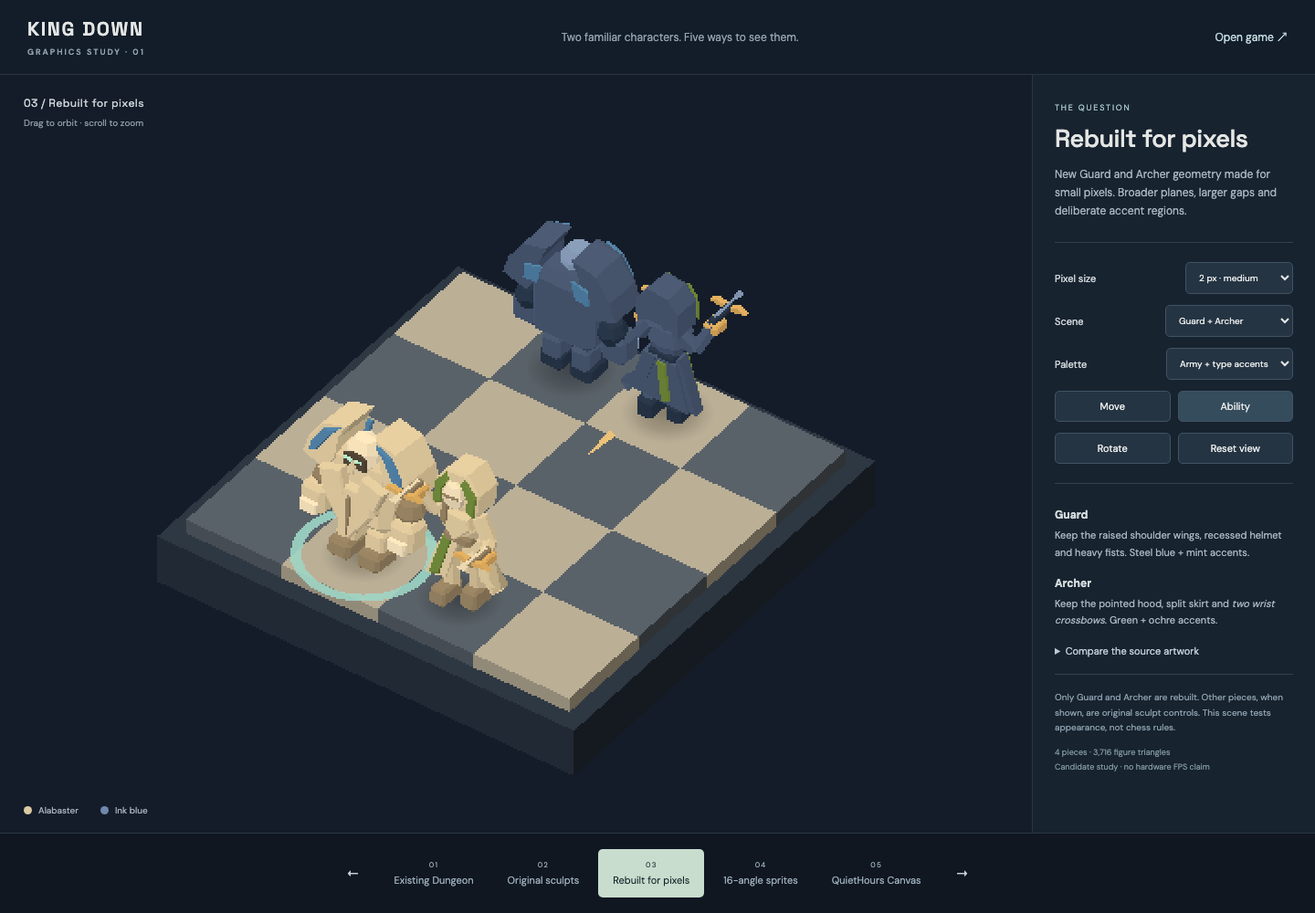
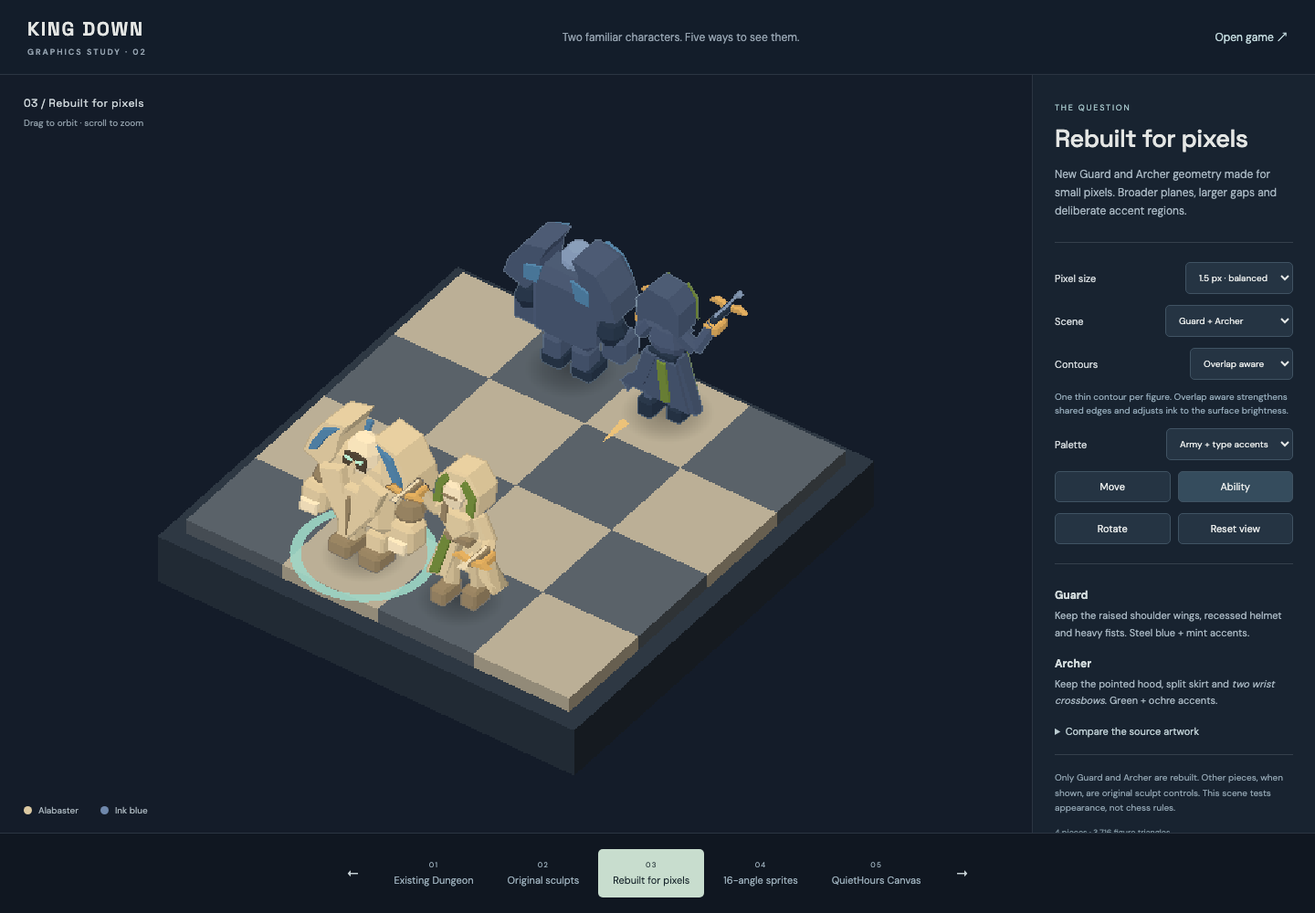
Compare finer pixels and adaptive piece contours in graphics study

diff --git a/src/render/prototype/study.ts b/src/render/prototype/study.ts
@@ -8,6 +8,7 @@ import { BoardRenderer } from '../renderer';
 import { STYLES } from '../styles';
 import { loadModels } from '../voxels';
 import { fromFen } from '../../rules/setup';
+import { PieceContourPass, type ContourMode } from './PieceContourPass';
 import './study.css';
 
 const variants=['baseline','sculpt','rebuilt','sprites','quiet'] as const;
@@ -22,12 +23,14 @@ const copy=[
 ];
 const params=new URLSearchParams(location.search);
 let variant:Variant=variants.includes(params.get('variant') as Variant)?params.get('variant') as Variant:'rebuilt';
-let crowded=false, pixel=2, running=false, orbit=false, motion=0, lastFrame=0;
+let pixel=[1,1.5,2,3,4].includes(Number(params.get('pixels')))?Number(params.get('pixels')):1.5;
+let contourMode:ContourMode=['off','silhouette','adaptive'].includes(params.get('contours')??'')?params.get('contours') as ContourMode:'adaptive';
+let running=false, orbit=false, motion=0, lastFrame=0;
 let epoch=0;
 const reduced=matchMedia('(prefers-reduced-motion: reduce)').matches;
 const source=import.meta.env.BASE_URL+'prototype/';
 document.title='King Down · Graphics study';
-document.body.innerHTML=`<main class="study"><header><div class="wordmark">KING DOWN<span>GRAPHICS STUDY · 01</span></div><div class="header-note">Two familiar characters. Five ways to see them.</div><a href="?">Open game ↗</a></header><section class="stage"><div id="stage-board"></div><canvas id="quiet-canvas" hidden></canvas><div class="scene-label"><span id="mode-label"></span><span id="view-hint">Drag to orbit · scroll to zoom</span></div><div class="armies"><span><i class="ivory"></i>Alabaster</span><span><i class="ink"></i>Ink blue</span></div></section><aside><div class="eyebrow">THE QUESTION</div><h1 id="variant-title"></h1><p id="description"></p><div class="controls"><label>Pixel size <select id="pixels"><option value="1">1 px · fine</option><option value="2" selected>2 px · medium</option><option value="3">3 px · coarse</option><option value="4">4 px · stress test</option></select></label><label>Scene <select id="scene"><option value="pair">Guard + Archer</option><option value="six">Six-piece lineup</option><option value="board">Full board · 32 pieces</option></select></label><label>Palette <select id="palette"><option value="colour">Army + type accents</option><option value="gray">Grayscale check</option></select></label><div class="button-row"><button id="move">Move</button><button id="ability">Ability</button></div><div class="button-row"><button id="spin">Rotate</button><button id="reset">Reset view</button></div></div><div class="detail"><b>Guard</b><p>Keep the raised shoulder wings, recessed helmet and heavy fists. Steel blue + mint accents.</p><b>Archer</b><p>Keep the pointed hood, split skirt and <em>two wrist crossbows</em>. Green + ochre accents.</p></div><details><summary>Compare the source artwork</summary><a href="${source}source-guides/guard_color_ref.jpg" target="_blank">Guard colour guide ↗</a><a href="${source}source-guides/Archer_color_ref.jpg" target="_blank">Archer colour guide ↗</a></details><p class="limits" id="limits"></p><output id="stats">Loading study assets…</output></aside><nav class="switcher" aria-label="Rendering candidates"><button id="prev" aria-label="Previous option">←</button><div class="tabs">${variants.map((v,i)=>`<button data-variant="${v}"><span>0${i+1}</span>${names[i]}</button>`).join('')}</div><button id="next" aria-label="Next option">→</button></nav></main>`;
+document.body.innerHTML=`<main class="study"><header><div class="wordmark">KING DOWN<span>GRAPHICS STUDY · 02</span></div><div class="header-note">Two familiar characters. Five ways to see them.</div><a href="?">Open game ↗</a></header><section class="stage"><div id="stage-board"></div><canvas id="quiet-canvas" hidden></canvas><div class="scene-label"><span id="mode-label"></span><span id="view-hint">Drag to orbit · scroll to zoom</span></div><div class="armies"><span><i class="ivory"></i>Alabaster</span><span><i class="ink"></i>Ink blue</span></div></section><aside><div class="eyebrow">THE QUESTION</div><h1 id="variant-title"></h1><p id="description"></p><div class="controls"><label>Pixel size <select id="pixels"><option value="1">1 px · fine</option><option value="1.5">1.5 px · balanced</option><option value="2">2 px · chunky</option><option value="3">3 px · coarse</option><option value="4">4 px · stress test</option></select></label><label>Scene <select id="scene"><option value="pair">Guard + Archer</option><option value="overlap">Overlap close-up</option><option value="six">Six-piece lineup</option><option value="board">Full board · 32 pieces</option></select></label><label>Contours <select id="contours"><option value="off">Off</option><option value="silhouette">Even silhouette</option><option value="adaptive">Overlap aware</option></select></label><p class="control-note" id="contour-note"></p><label>Palette <select id="palette"><option value="colour">Army + type accents</option><option value="gray">Grayscale check</option></select></label><div class="button-row"><button id="move">Move</button><button id="ability">Ability</button></div><div class="button-row"><button id="spin">Rotate</button><button id="reset">Reset view</button></div></div><div class="detail"><b>Guard</b><p>Keep the raised shoulder wings, recessed helmet and heavy fists. Steel blue + mint accents.</p><b>Archer</b><p>Keep the pointed hood, split skirt and <em>two wrist crossbows</em>. Green + ochre accents.</p></div><details><summary>Compare the source artwork</summary><a href="${source}source-guides/guard_color_ref.jpg" target="_blank">Guard colour guide ↗</a><a href="${source}source-guides/Archer_color_ref.jpg" target="_blank">Archer colour guide ↗</a></details><p class="limits" id="limits"></p><output id="stats">Loading study assets…</output></aside><nav class="switcher" aria-label="Rendering candidates"><button id="prev" aria-label="Previous option">←</button><div class="tabs">${variants.map((v,i)=>`<button data-variant="${v}"><span>0${i+1}</span>${names[i]}</button>`).join('')}</div><button id="next" aria-label="Next option">→</button></nav></main>`;
 const el=<T extends HTMLElement=HTMLElement>(id:string)=>document.getElementById(id) as T;
 // Access to existing renderer internals is intentional and isolated to this throwaway study.
 const view:any=new BoardRenderer(el('stage-board'));
@@ -35,6 +38,9 @@ const view:any=new BoardRenderer(el('stage-board'));
 view.renderer.setAnimationLoop(null);
 view.controls.enableDamping=false;
 view.controls.minZoom=.6;view.controls.maxZoom=5;
+const contourPass=new PieceContourPass(view.scene,view.camera);
+view.composer.insertPass(contourPass,1);
+el<HTMLSelectElement>('pixels').value=String(pixel);el<HTMLSelectElement>('contours').value=contourMode;
 const quiet=el<HTMLCanvasElement>('quiet-canvas');
 const loader=new GLTFLoader();
 const models=new Map<string,THREE.Group>();
@@ -67,8 +73,10 @@ await new Promise<void>((resolve,reject)=>{const s=document.createElement('scrip
 
 type Entry={sq:number,type:string,side:number,root:THREE.Group,visual:THREE.Group|THREE.Mesh,base:THREE.Vector3};
 let entries:Entry[]=[];
-let sceneMode='pair';
+let sceneMode=['pair','overlap','six','board'].includes(params.get('scene')??'')?params.get('scene')!:'pair';
+el<HTMLSelectElement>('scene').value=sceneMode;
 const pairFen='8/8/3ga3/8/8/3GA3/8/8 w - - 0 1';
+const overlapFen='8/8/8/3gG3/3aA3/8/8/8 w - - 0 1';
 const sixFen='8/8/pngabk2/8/8/PNGABK2/8/8 w - - 0 1';
 const boardFen='nagkkgan/pppppppp/8/8/8/8/PPPPPPPP/NAGKKGAN w - - 0 1'; // visual stress arrangement; not a playable game
 let pos=fromFen(pairFen);
@@ -105,7 +113,7 @@ function clearStudyPieces(){
 function resetCamera(){
  const focus=sceneMode==='board'?new THREE.Vector3(0,.3,0):new THREE.Vector3(sceneMode==='six'?-1:.0,.35,0);
  view.controls.target.copy(focus);
- view.camera.position.copy(focus).add(new THREE.Vector3(6.2,9.0,8.6));
+ view.camera.position.copy(focus).add(sceneMode==='overlap'?new THREE.Vector3(2.7,4.6,9.5):new THREE.Vector3(6.2,9.0,8.6));
  view.camera.zoom=1;view.camera.updateProjectionMatrix();view.controls.update();view.camera.updateMatrixWorld(true);view.scene.updateMatrixWorld(true);
  const boxes=[new THREE.Box3().setFromObject(view.frame3d),...entries.map(e=>new THREE.Box3().setFromObject(e.visual))];
  let extent=0;for(const b of boxes)for(const x of [b.min.x,b.max.x])for(const y of [b.min.y,b.max.y])for(const z of [b.min.z,b.max.z]){const p=new THREE.Vector3(x,y,z).project(view.camera);extent=Math.max(extent,Math.abs(p.x),Math.abs(p.y));}
@@ -116,19 +124,22 @@ async function apply(){
  const id=++epoch;running=false;motion=0;clearStudyPieces();view.tweens.flush();
  const i=variants.indexOf(variant);el('variant-title').textContent=names[i];el('description').textContent=copy[i];el('mode-label').textContent=`0${i+1} / ${names[i]}`;
  document.querySelectorAll('[data-variant]').forEach(x=>x.classList.toggle('active',(x as HTMLElement).dataset.variant===variant));
- const url=new URL(location.href);url.searchParams.set('variant',variant);history.replaceState({},'',url);
+ syncUrl();
  const isQuiet=variant==='quiet';quiet.hidden=!isQuiet;el('stage-board').style.visibility=isQuiet?'hidden':'visible';
  el('view-hint').textContent=isQuiet?'Fixed 2:1 isometric · drag to pan · scroll to zoom':variant==='sprites'?'Drag to orbit · 16 views · elevation locked':'Drag to orbit · scroll to zoom';
- el<HTMLButtonElement>('spin').disabled=isQuiet;el<HTMLSelectElement>('scene').querySelector<HTMLOptionElement>('[value=six]')!.disabled=isQuiet;
+ el<HTMLButtonElement>('spin').disabled=isQuiet;el<HTMLSelectElement>('scene').querySelector<HTMLOptionElement>('[value=overlap]')!.disabled=isQuiet;el<HTMLSelectElement>('scene').querySelector<HTMLOptionElement>('[value=six]')!.disabled=isQuiet;
  el<HTMLSelectElement>('scene').querySelector<HTMLOptionElement>('[value=board]')!.disabled=isQuiet;
- if(isQuiet&&sceneMode!=='pair'){sceneMode='pair';el<HTMLSelectElement>('scene').value='pair';}
+ if(isQuiet&&sceneMode!=='pair'){sceneMode='pair';el<HTMLSelectElement>('scene').value='pair';syncUrl();}
+ const canContour=variant!=='baseline'&&!isQuiet;contourPass.enabled=canContour;view.pixelPass.enabled=!canContour;contourPass.mode=contourMode;
+ el<HTMLSelectElement>('contours').disabled=!canContour;
+ el('contour-note').textContent=canContour?'One thin contour per figure. Overlap aware strengthens shared edges and adjusts ink to the surface brightness.':'Contour comparison is available on Original sculpts, Rebuilt and Sprites.';
  el('limits').textContent=isQuiet?'Canvas study: rebuilt pair only. Palette extended for the two armies. Painter sorting can misorder intersecting faces; this is not a production fallback.':variant==='sprites'?'One idle pose per angle; movement and effects animate in world space. Elevation is locked to the bake. No interpolated pose animation.':variant==='sculpt'?'Simplified original geometry with provisional colour zones. This is not a finished repaint of the source sculpts.':variant==='baseline'?'Existing voxel models and Dungeon style, placed on the same comparison board. This scene tests appearance, not chess rules.':'Only Guard and Archer are rebuilt. Other pieces, when shown, are original sculpt controls. This scene tests appearance, not chess rules.';
- pos=fromFen(sceneMode==='board'?boardFen:sceneMode==='six'?sixFen:pairFen);
+ pos=fromFen(sceneMode==='board'?boardFen:sceneMode==='six'?sixFen:sceneMode==='overlap'?overlapFen:pairFen);
  const style=variant==='baseline'?STYLES.dungeonVoxel:{...STYLES.cel,outline:false,pixelSize:pixel,pieceScale:1,tiles:'flat' as const,shadow:true,lights:'bright' as const};
  view.applyStyle(style);view.rebuild(pos);
  for(const tile of view.tiles){const f=tile.userData.sq%8,r=Math.floor(tile.userData.sq/8);tile.visible=sceneMode==='board'||(r>=2&&r<=5&&(sceneMode==='six'?f<6:f>=2&&f<=5));}
  view.frame3d.scale.set(sceneMode==='board'?1:sceneMode==='six'?6.35/8.9:4.35/8.9,1,sceneMode==='board'?1:4.35/8.9);view.frame3d.position.x=sceneMode==='six'?-1:0;
- view.setLabels(false);view.setCoords(false);view.setPalette(false);view.setPixelSize(pixel);
+ view.setLabels(false);view.setCoords(false);view.setPalette(false);view.setPixelSize(pixel);contourPass.setPixelSize(pixel);
  view.setEdges(variant==='baseline'?.05:0,variant==='baseline'?.15:0);
  view.controls.minPolarAngle=variant==='sprites'?Math.atan2(5,6.5):.25;view.controls.maxPolarAngle=variant==='sprites'?Math.atan2(5,6.5):1.25;
  if(variant!=='baseline'){
@@ -148,22 +159,24 @@ async function apply(){
   }
   entries.push({sq,type,side,root:g,visual:model,base:g.position.clone()});
  }
- resetCamera();
- // The inherited pixel pass remains for an apples-to-apples comparison of screen resolution.
+ contourPass.setPieces(entries.map(e=>e.visual));resetCamera();
+ // Candidate styles use one beauty draw plus an optional piece-ID draw; baseline retains its original pass.
  view.debris.mesh.visible=false;
  rebuildCanvas();updateStats();
 }
 function updateStats(){
  let tris=0;for(const e of entries)e.visual.traverse((o:any)=>{if(o.isMesh)tris+=(o.geometry.index?.count??o.geometry.attributes.position.count)/3;});
- el('stats').textContent=`${entries.length} pieces · ${Math.round(tris).toLocaleString()} figure triangles${variant==='sprites'?` · ${(atlasBytes/1048576).toFixed(1)} MiB atlas texels`:''}\nCandidate study · no hardware FPS claim`;
+ el('stats').textContent=`${entries.length} pieces · ${Math.round(tris).toLocaleString()} figure triangles${variant==='sprites'?` · ${(atlasBytes/1048576).toFixed(1)} MiB atlas texels`:''}\n${variant==='quiet'?'Canvas':variant==='baseline'?'Original pixel pass':contourMode==='off'?'1 scene draw':'2 scene draws · beauty + piece IDs'} · no hardware FPS claim`;
 }
+function syncUrl(){const url=new URL(location.href);url.searchParams.set('variant',variant);url.searchParams.set('scene',sceneMode);url.searchParams.set('pixels',String(pixel));url.searchParams.set('contours',contourMode);history.replaceState({},'',url);}
 function choose(v:Variant){variant=v;return apply();}
 document.querySelectorAll<HTMLButtonElement>('[data-variant]').forEach(b=>b.onclick=()=>choose(b.dataset.variant as Variant));
 const cycle=(d:number)=>choose(variants[(variants.indexOf(variant)+d+variants.length)%variants.length]);
 el('prev').onclick=()=>cycle(-1);el('next').onclick=()=>cycle(1);
 addEventListener('keydown',e=>{if((e.target as HTMLElement).closest('input,select,textarea,[contenteditable]'))return;if(e.key==='ArrowLeft')cycle(-1);if(e.key==='ArrowRight')cycle(1);});
-el<HTMLSelectElement>('pixels').onchange=e=>{pixel=Number((e.target as HTMLSelectElement).value);view.setPixelSize(pixel);resizeQuiet();};
-el<HTMLSelectElement>('scene').onchange=e=>{sceneMode=(e.target as HTMLSelectElement).value;crowded=sceneMode==='board';void apply();};
+el<HTMLSelectElement>('pixels').onchange=e=>{pixel=Number((e.target as HTMLSelectElement).value);view.setPixelSize(pixel);contourPass.setPixelSize(pixel);resizeQuiet();syncUrl();};
+el<HTMLSelectElement>('scene').onchange=e=>{sceneMode=(e.target as HTMLSelectElement).value;void apply();};
+el<HTMLSelectElement>('contours').onchange=e=>{contourMode=(e.target as HTMLSelectElement).value as ContourMode;contourPass.mode=contourMode;syncUrl();updateStats();};
 el<HTMLSelectElement>('palette').onchange=e=>{const gray=(e.target as HTMLSelectElement).value==='gray';el('stage-board').style.filter=gray?'grayscale(1)':'';quiet.style.filter=gray?'grayscale(1)':'';};
 el('reset').onclick=()=>{orbit=false;el('spin').textContent='Rotate';resetCamera();};
 el('spin').onclick=()=>{orbit=!orbit;el('spin').textContent=orbit?'Stop rotation':'Rotate';};
@@ -248,4 +261,4 @@ function frame(now:number){const dt=Math.min(.04,(now-lastFrame)/1000||0);lastFr
  requestAnimationFrame(frame);
 }
 await apply();requestAnimationFrame(frame);
-(window as any).study={choose,apply,get variant(){return variant},get entries(){return entries},get running(){return running},models,atlasCache,animate,view,get scene(){return sceneMode},setScene:(mode:string)=>{sceneMode=mode;el<HTMLSelectElement>('scene').value=mode;return apply();},get pixel(){return pixel}};
+(window as any).study={choose,apply,get variant(){return variant},get entries(){return entries},get running(){return running},models,atlasCache,animate,view,contourPass,get scene(){return sceneMode},setScene:(mode:string)=>{sceneMode=mode;el<HTMLSelectElement>('scene').value=mode;return apply();},get pixel(){return pixel}};

diff --git a/src/render/prototype/PieceContourPass.ts b/src/render/prototype/PieceContourPass.ts
@@ -1,0 +1,105 @@
+/** Study only: compare pixel density and visible-piece separation, without polygon wire lines. */
+import * as THREE from 'three';
+import { Pass, FullScreenQuad } from 'three/addons/postprocessing/Pass.js';
+
+export type ContourMode = 'off' | 'silhouette' | 'adaptive';
+export class PieceContourPass extends Pass {
+  pixelSize = 1.5;
+  mode: ContourMode = 'adaptive';
+  private size = new THREE.Vector2(1, 1);
+  readonly beauty = new THREE.WebGLRenderTarget(1, 1, { minFilter: THREE.NearestFilter, magFilter: THREE.NearestFilter, type: THREE.HalfFloatType, depthTexture: new THREE.DepthTexture() });
+  readonly ids = new THREE.WebGLRenderTarget(1, 1, { minFilter: THREE.NearestFilter, magFilter: THREE.NearestFilter });
+  private pieces = new Map<THREE.Object3D, number>();
+  private idMaterial = new THREE.ShaderMaterial({
+    uniforms: { pieceId: { value: 0 }, alphaMap: { value: null }, hasAlpha: { value: false }, uvTransform: { value: new THREE.Matrix3() } },
+    vertexShader: `varying vec2 vUv; uniform mat3 uvTransform;
+      void main(){vUv=(uvTransform*vec3(uv,1.)).xy; gl_Position=projectionMatrix*modelViewMatrix*vec4(position,1.);}`,
+    fragmentShader: `varying vec2 vUv; uniform float pieceId; uniform sampler2D alphaMap; uniform bool hasAlpha;
+      void main(){if(hasAlpha && texture2D(alphaMap,vUv).a<.3)discard; gl_FragColor=vec4(pieceId,0.,0.,1.);}`,
+    side: THREE.DoubleSide,
+  });
+  private composite = new THREE.ShaderMaterial({
+    uniforms: { beauty: { value: this.beauty.texture }, ids: { value: this.ids.texture }, depth: { value: this.beauty.depthTexture }, stepSize: { value: new THREE.Vector2() }, mode: { value: 2 } },
+    vertexShader: `varying vec2 vUv; void main(){vUv=uv;gl_Position=projectionMatrix*modelViewMatrix*vec4(position,1.);}`,
+    fragmentShader: `
+      uniform sampler2D beauty,ids,depth; uniform vec2 stepSize; uniform int mode; varying vec2 vUv;
+      float lum(vec3 c){return dot(c,vec3(.2126,.7152,.0722));}
+      void main(){
+        vec4 color=texture2D(beauty,vUv);
+        float id=texture2D(ids,vUv).r;
+        if(mode>0 && id>.001){
+          float edge=0., overlap=0., weakContrast=0.;
+          float z=texture2D(depth,vUv).r;
+          for(int i=0;i<4;i++){
+            vec2 d=i==0?vec2(1,0):i==1?vec2(-1,0):i==2?vec2(0,1):vec2(0,-1);
+            vec2 uv=vUv+d*stepSize;
+            float other=texture2D(ids,uv).r;
+            if(abs(id-other)>.002){
+              // Ink only the visible foreground figure at a shared boundary; never reveal hidden parts.
+              bool front=z<=texture2D(depth,uv).r+.00001;
+              if(other<.001 || front){
+                edge=1.;
+                if(other>.001){
+                  overlap=1.;
+                  weakContrast=max(weakContrast,1.-smoothstep(.03,.18,abs(lum(color.rgb)-lum(texture2D(beauty,uv).rgb))));
+                }
+              }
+            }
+          }
+          // Continuous contrast adjustment: lighter blue-grey ink for dark surfaces, dark ink for light ones.
+          vec3 ink=mix(vec3(.20,.28,.36),vec3(.035,.042,.05),smoothstep(.10,.28,lum(color.rgb)));
+          float strength=mode==1?.60:mix(.30,.55+.35*weakContrast,overlap);
+          color.rgb=mix(color.rgb,ink,edge*strength);
+        }
+        gl_FragColor=color;
+      }`,
+  });
+  private quad = new FullScreenQuad(this.composite);
+  private black = new THREE.Color(0);
+
+  constructor(private scene: THREE.Scene, private camera: THREE.Camera) {
+    super();
+    this.idMaterial.onBeforeRender = (_renderer, _scene, _camera, _geometry, object) => {
+      const uniforms = this.idMaterial.uniforms;
+      uniforms.pieceId.value = (this.pieces.get(object) ?? 0) / 255;
+      const material = (object as THREE.Mesh).material as THREE.MeshBasicMaterial;
+      const map = material?.map;
+      uniforms.hasAlpha.value = Boolean(map && material.alphaTest > 0);
+      if (map) { map.updateMatrix(); uniforms.alphaMap.value = map; uniforms.uvTransform.value.copy(map.matrix); }
+      this.idMaterial.uniformsNeedUpdate = true;
+    };
+  }
+
+  setPieces(figures: THREE.Object3D[]) {
+    this.pieces.clear();
+    figures.forEach((figure, i) => figure.traverse(part => { if ((part as THREE.Mesh).isMesh) this.pieces.set(part, i + 1); }));
+  }
+
+  setPixelSize(value: number) { this.pixelSize = value; this.setSize(this.size.x, this.size.y); }
+
+  setSize(width: number, height: number) {
+    this.size.set(width, height);
+    const w = Math.max(1, Math.floor(width / this.pixelSize)), h = Math.max(1, Math.floor(height / this.pixelSize));
+    this.beauty.setSize(w, h); this.ids.setSize(w, h);
+    this.composite.uniforms.stepSize.value.set(1 / w, 1 / h);
+  }
+
+  render(renderer: THREE.WebGLRenderer, writeBuffer: THREE.WebGLRenderTarget) {
+    renderer.setRenderTarget(this.beauty); renderer.render(this.scene, this.camera);
+    if (this.mode !== 'off') {
+      const background = this.scene.background, override = this.scene.overrideMaterial;
+      const shadows = renderer.shadowMap.enabled;
+      try {
+        this.scene.background = this.black; this.scene.overrideMaterial = this.idMaterial;
+        renderer.shadowMap.enabled = false;
+        renderer.setRenderTarget(this.ids); renderer.render(this.scene, this.camera);
+      } finally {
+        this.scene.background = background; this.scene.overrideMaterial = override; renderer.shadowMap.enabled = shadows;
+      }
+    }
+    this.composite.uniforms.mode.value = this.mode === 'off' ? 0 : this.mode === 'silhouette' ? 1 : 2;
+    renderer.setRenderTarget(this.renderToScreen ? null : writeBuffer); this.quad.render(renderer);
+  }
+
+  dispose() { this.beauty.dispose(); this.ids.dispose(); this.idMaterial.dispose(); this.composite.dispose(); this.quad.dispose(); }
+}

diff --git a/src/render/prototype/study.css b/src/render/prototype/study.css
@@ -1,2 +1,4 @@
 @import url('https://fonts.googleapis.com/css2?family=DM+Sans:wght@400;500;600;700&family=Space+Grotesk:wght@400;500;600&display=swap');
 *{box-sizing:border-box}body{margin:0;background:#111923;color:#e4e6e4;font-family:'DM Sans',sans-serif;font-size:14px;overflow:hidden}.study{height:100dvh;display:grid;grid-template-columns:minmax(0,1fr) 310px;grid-template-rows:82px minmax(0,1fr) 88px}header{grid-column:1/-1;display:flex;align-items:center;justify-content:space-between;padding:0 30px;border-bottom:1px solid #2b3542;background:#131d2a}.wordmark{font-family:'Space Grotesk',sans-serif;letter-spacing:.08em;font-weight:600;font-size:21px}.wordmark span{display:block;font-family:'DM Sans',sans-serif;font-size:9px;letter-spacing:.22em;color:#94a2af;margin-top:6px}.header-note{font-size:12px;color:#94a2af}a{color:#c1d8dc;text-decoration:none}header a{font-size:12px}.stage{position:relative;min-width:0;overflow:hidden}#stage-board{position:absolute;inset:0}#stage-board>canvas,#quiet-canvas{width:100%;height:100%;display:block;image-rendering:pixelated}#quiet-canvas{position:absolute;inset:0;touch-action:none}#quiet-canvas[hidden]{display:none}.scene-label{position:absolute;top:23px;left:26px;display:flex;flex-direction:column;gap:7px;pointer-events:none;color:#ccd4d8;font-size:12px}#mode-label{font-family:'Space Grotesk';letter-spacing:.03em}#view-hint{color:#8d9ba6;font-size:10px}.armies{position:absolute;bottom:18px;left:26px;display:flex;gap:24px;pointer-events:none;font-size:10px;color:#a7b3bb}.armies span{display:flex;align-items:center;gap:7px}.armies i{width:9px;height:9px;border-radius:50%;display:block}.ivory{background:#dcc9a2}.ink{background:#6f88ac}aside{overflow:auto;padding:30px 24px;background:#182330;border-left:1px solid #2b3542}.eyebrow{font-size:9px;letter-spacing:.2em;color:#a2c2c6}h1{font-family:'Space Grotesk';font-size:27px;font-weight:500;line-height:1.15;letter-spacing:-.02em;margin:12px 0 15px}p{font-size:12px;line-height:1.65;color:#a7b6c1}.controls{display:flex;flex-direction:column;gap:12px;margin:24px 0;padding:21px 0;border-block:1px solid #35404c}label{display:flex;justify-content:space-between;align-items:center;gap:12px;font-size:11px;color:#d1d7da}select,button{font:inherit;background:#253443;color:#e6e9e8;border:1px solid #405363;border-radius:5px;padding:9px 10px}select{font-size:10px;max-width:167px}button{cursor:pointer;transition:background .15s}button:hover{background:#354c5d}button:disabled{opacity:.4;cursor:default}.button-row{display:flex;gap:8px}.button-row button{flex:1;font-size:11px}.detail b{font-size:12px;color:#d3dcdd}.detail p{font-size:11px;margin:5px 0 15px}.limits{font-size:10px;color:#8da0ad;border-top:1px solid #35404c;padding-top:17px}details{font-size:11px;margin:18px 0;color:#bbccd1}details a{display:block;margin-top:10px}summary{cursor:pointer}output{display:block;font-size:9px;color:#7f949f;white-space:pre-line;line-height:1.8}.switcher{grid-column:1/-1;display:flex;justify-content:center;align-items:center;gap:12px;background:#101721;border-top:1px solid #2b3542;padding:14px}.tabs{display:flex;gap:5px}.tabs button{background:transparent;border-color:transparent;color:#9aadb9;font-size:11px;padding:11px 15px;white-space:nowrap}.tabs button span{display:block;font-size:8px;margin-bottom:5px;letter-spacing:.15em}.tabs button.active{background:#c8ddce;color:#17252b}.switcher>button{border:0;background:transparent;color:#c6d1d5}@media(max-width:800px){.study{grid-template-columns:1fr;grid-template-rows:68px minmax(310px,48dvh) minmax(0,1fr) 67px}header{padding:0 17px}.wordmark{font-size:16px}.header-note{display:none}header a{font-size:10px}.stage{grid-row:2}aside{padding:17px;display:block;border-left:0;border-top:1px solid #2b3542}h1{font-size:21px;margin:6px 0}.eyebrow,.detail,details,.limits{display:none}.controls{margin:10px 0;padding:10px 0;display:grid;grid-template-columns:1fr 1fr;gap:8px}label{font-size:10px;flex-wrap:wrap;gap:4px}select{max-width:150px;padding:7px}.controls label:nth-child(3){grid-column:1/-1}.button-row button{padding:7px}p{font-size:10px;margin:7px 0}.switcher{grid-row:4;padding:8px;gap:1px;overflow:auto;justify-content:flex-start}.tabs{flex:1;gap:0}.tabs button{font-size:8px;padding:8px 6px;white-space:normal;min-width:57px}.tabs button span{font-size:7px}output{font-size:8px}.scene-label{top:13px;left:16px}.armies{bottom:9px;left:16px;font-size:8px}}
+
+.control-note{font-size:10px;line-height:1.45;margin:0;color:#91a7b6}@media(max-width:800px){.control-note{grid-column:1/-1;font-size:9px}.controls label:nth-child(3){grid-column:auto}.controls label:nth-of-type(4){grid-column:1/-1}}

diff --git a/docs/graphics-prototype/README.md b/docs/graphics-prototype/README.md
@@ -20,6 +20,23 @@ The bottom buttons or left/right arrow keys switch five candidates. Pixel size, 
 
 The pair scene has both armies. The six-type lineup adds Pawn, Knight, Bishop and King. The 32-piece board is a visual stress arrangement, **not a legal starting army**. QuietHours is limited to the pair.
 
+## Detail and overlap follow-up
+
+The owner's next question was whether more pixels and dynamic outlines would improve detail and distinguish overlapping figures. Open [the overlap comparison](http://localhost:5190/?study&variant=rebuilt&scene=overlap&pixels=1&contours=adaptive). The settings are saved in the URL; no local storage is involved.
+
+- **Pixel size:** 1 px gives twice the samples along each dimension, four times the sample area, compared with 2 px at the same camera/viewport. A new 1.5 px option is the default compromise, with approximately 1.78 times the sample area of 2 px. Fractional scaling is a compromise with uneven physical pixel blocks; 1 or 2 px gives a more regular grid. Geometry and sprite source detail are unchanged.
+- **Contours:** Off / Even silhouette / Overlap aware. A visible-piece identity mask gives every component of one figure the same ID, so internal mesh joints and material seams do not receive outlines. The contour is one render texel wide, drawn inside the visible foreground figure. The adaptive option is subtle against the board and stronger where different figures meet, especially at low contrast; it uses lighter blue-grey ink on dark surfaces and dark ink on bright ones. It responds to the current camera and pose each frame. It does not reveal fully hidden figures.
+- **Coverage:** Original sculpts, Rebuilt and directional Sprites. Sprite masks respect atlas alpha and the current view. Current Dungeon and QuietHours keep their original treatments; the contour control is disabled there. The new overlap scene lowers the camera for live 3D; sprites retain the elevation fixed by their bake.
+- **Cost:** The candidate renderer now uses one scene render with contours off and two with contours on (beauty plus unlit IDs), replacing the candidate's former beauty/normal pass. The measured four-figure overlap view submitted 141 versus 280 draw calls across the composer; these are workload counts, not GPU timings. Finer resolution increases render-target and fragment work. The production game's renderer is unchanged.
+
+My visual preference is **1 px with Overlap aware**, keeping broader shapes and restrained colour rather than adding tiny painted noise. This reveals more existing detail; it does not recover facial/costume detail that has not yet been modelled. Full-board phone figures remain small, so zoom/inspection and carefully chosen proportions still matter.
+
+[2 px, contours off](captures/overlap-2px-off.png) · [1 px, contours off](captures/overlap-1px-off.png) · [1 px, adaptive contours](captures/overlap-1px-adaptive.png) · [Even contours](captures/overlap-1px-silhouette.png) · [Phone](captures/overlap-mobile-adaptive.png) · [Phone full board](captures/board-mobile-fine-adaptive.png)
+
+The GPU mask contained exactly four figure IDs despite their many mesh components. In the fixed test view, mean absolute luminance difference across 875 horizontal piece boundaries rose from 47.3 to 59.7 on an 8-bit display-value scale. This is a local edge-contrast check, **not a human recognition score**. Of 3,406 changed image pixels, none lay on the board/background. Sprite masks occupied 49–63% of their bounding rectangles, confirming transparent cutouts were retained. [Evidence](verification.json).
+
+Implementation: [PieceContourPass](../../src/render/prototype/PieceContourPass.ts). Existing Three.js pass behavior was checked against the installed r186 code and [official pixel-pass documentation](https://threejs.org/docs/pages/RenderPixelatedPass.html). No dependency was added. Pixel snapping and real-device performance remain untested.
+
 ## Actual new assets
 
 - [Editable Blender source](rebuilt-pieces.blend): two roots, with named parts and assigned material roles. Reopened successfully in Blender 5.2.0 LTS: Guard 26 descendants, Archer 33.
@@ -57,10 +74,10 @@ The remaining framework shortlist and primary sources are in [open-source altern
 
 ## Verification and limits
 
-`npm run build` passes TypeScript and Vite production compilation; the existing large-chunk advisory remains. `npm run graphics:check` passes **22 checks with zero page/console errors**, exercising five modes, view switching, Canvas pan, animation completion, both-army lineups, 32 pieces, desktop and 390×844 framing, pixel/grayscale controls, source links and the ordinary game route. [Machine-readable results](verification.json) include browser version and observed geometry counts.
+`npm run build` passes TypeScript and Vite production compilation; the existing large-chunk advisory remains. `npm run graphics:check` passes **30 checks with zero page/console errors**, exercising five modes, view switching, Canvas pan, animation completion, both-army lineups, 32 pieces, desktop and 390×844 framing, pixel/grayscale controls, source links and the ordinary game route. The follow-up also checks resolution ratios, URL settings, piece masks, actual contour pixel differences, sprite cutouts and skipping the ID draw when off. [Machine-readable results](verification.json) include browser version and observed geometry counts.
 
 [Rebuilt desktop](captures/rebuilt-desktop.png) · [Phone](captures/rebuilt-mobile-pair.png) · [Phone, full board](captures/rebuilt-mobile.png) · [16-angle sprites](captures/sprites-desktop.png) · [QuietHours](captures/quiet-desktop.png) · [Original controls](captures/sculpt-desktop.png) · [Current voxels](captures/baseline-desktop.png)
 
-These checks use Chromium software rendering, not physical mobile hardware. They establish functionality and framing, not FPS, battery life, colour-blind recognition or that an observer can identify every piece at a glance. The inherited two-scene pixel pass and broader renderer resource findings from the audit remain to be addressed. No full game regression, all-piece animation library or production asset pipeline is claimed.
+These checks use Chromium software rendering, not physical mobile hardware. They establish functionality and framing, not FPS, battery life, colour-blind recognition or that an observer can identify every piece at a glance. The production two-scene pixel pass and broader renderer resource findings from the audit remain to be addressed; the candidate pass above is confined to this study. No full game regression, all-piece animation library or production asset pipeline is claimed.
 
 Before adoption, choose the visual direction from this comparison, finish two representative assets, and profile the resulting board on an agreed older phone. Extend the chosen treatment to the full set only after that evidence. Keep effects in the same visual language: army-coloured fragments, restrained type-colour trails, brief contact flashes and clear tactical markers.
